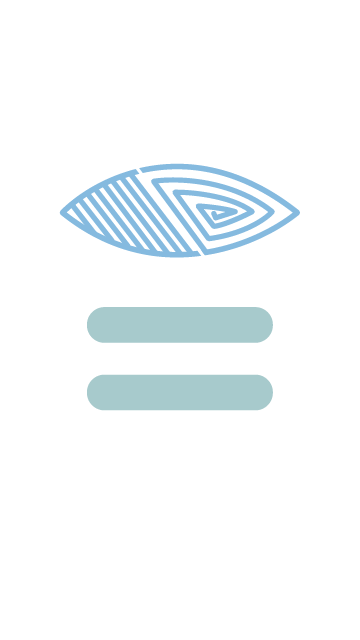
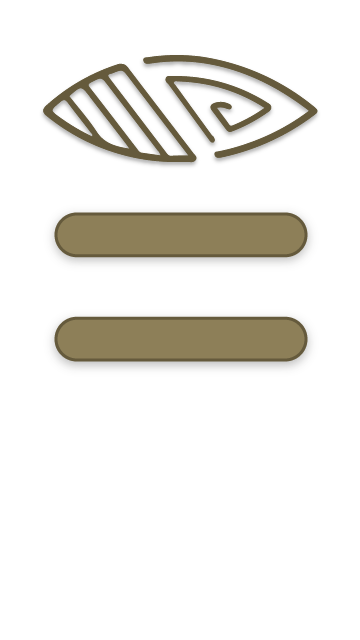
pantallas cambiadas

Changed region(s): [[0.1222, 0.0625, 0.8861, 0.4062], [0.1528, 0.4688, 0.8556, 0.6562]]

diff --git a/bin/styles/'recived2'-page2.css b/bin/styles/'recived2'-page2.css
@@ -1,0 +1,89 @@
+* {
+    margin: 0;
+    border-style: hidden;
+    overflow: hidden;
+    user-select: none;
+}
+
+html,
+body {
+
+    height: 100%;
+    width: 100%;
+}
+
+.feedback {
+    border-radius: 50%;
+    position: absolute;
+    top: 50%;
+    left: 50%;
+    transform: translate(-50%, -50%);
+
+    background-color: rgba(60, 34, 121, 0.685);
+    width: 0;
+    height: 0;
+
+}
+
+.p5Canvas {
+    display: none;
+}
+
+.play {
+    position: absolute;
+    margin: 0;
+    padding: 2em;
+    height: 50%;
+    z-index: 5;
+    transition: height 0.5s ease-in-out;
+
+}
+
+.imagen {
+
+    height: 50%;
+    z-index: 4;
+    transition: height 0.5s ease-in-out;
+
+}
+
+
+.icono {
+    position: absolute;
+    padding: 0;
+    margin: 0;
+    height: 50%;
+    z-index: 3;
+
+}
+
+
+
+.fondo {
+    width: 100%;
+    height: 100%;
+    display: flex;
+    flex-direction: column;
+    align-items: center;
+    justify-content: center;
+    background-image: url("../../data/img/fondo.png");
+    background-position: center;
+    background-repeat: no-repeat;
+    background-size: cover;
+}
+
+@media(min-width:400px) {
+    .play {
+
+        height: 100%;
+        transition: height 0.5s ease-in-out;
+
+
+    }
+
+    .imagen {
+        height: 100%;
+        transition: height 0.5s ease-in-out;
+    }
+
+}

diff --git a/bin/views/'recived2'-page2.html b/bin/views/'recived2'-page2.html
@@ -1,0 +1,34 @@
+<!DOCTYPE html>
+<html lang="en">
+<head>
+    <meta charset="UTF-8">
+    <meta name="viewport" content="width=device-width, initial-scale=1.0">
+    <meta http-equiv="X-UA-Compatible" content="ie=edge">
+    <title>"Discapacidad visual - page2"</title>
+    <link rel="stylesheet" href="./../styles/'recived2'-page2.css">
+</head>
+<body class="body">
+     
+  <div class="fondo">
+    <img class="icono" src="../../data/img/iconoSensible.png" alt="icono"> </img>
+    <img class="imagen" src="../../data/img/exposicion2.png" alt="exposicion1"> </img>
+    <img class="play" src="../../data/img/reproducir.png" alt="play"></img>
+    
+  </div>
+ 
+
+  <div class="feedback"></div>
+  
+  
+
+        
+
+
+  <script src="./../../src/p5.js"></script>
+  <script src="./../../src/p5.sound.js"></script>
+  <script src="./../sripts/'recived2'-page2.js"></script>
+    
+</body>
+
+
+</html>

diff --git a/bin/sripts/'register'-page3.js b/bin/sripts/'register'-page3.js
@@ -16,7 +16,7 @@ var nombre = document.querySelector(".nombre")
 
 var apellido = document.querySelector(".apellido")
 
-var boton = document.querySelector(".button")
+var button = document.querySelector(".button")
 
 
 function preload() {
@@ -35,13 +35,13 @@ body.addEventListener("pointerdown", mousePresionado)
 body.addEventListener("pointerup", mouseSuelto)
 
 
-boton.addEventListener("click",function(){
+button.addEventListener("click",function(){
 
     let valorinput = nombre.value;
-    let valorinput2 = apellido.value;
+    //let valorinput2 = apellido.value;
     
 localStorage.setItem("nombre",valorinput+" ");
-localStorage.setItem("nombre",valorinput2+" ");
+//localStorage.setItem("nombre",valorinput2+" ");
 
 
 })
@@ -82,4 +82,6 @@ function draw() {
     }
     
 }
+
+localStorage.getItem("nombre",valorinput+" ");
 

diff --git a/bin/sripts/'recived2'-page2.js b/bin/sripts/'recived2'-page2.js
@@ -103,7 +103,7 @@ document.addEventListener("touchend", function (event) {
 
     xReleased = event.changedTouches[0].clientX;
     direccion = xReleased - xPressed;
-    if (direccion >= 150) document.location.href = "./../views/'recived2'-page2.html"
+    if (direccion >= 150) document.location.href = "./../views/'register'-page3.html"
 
 
 })
